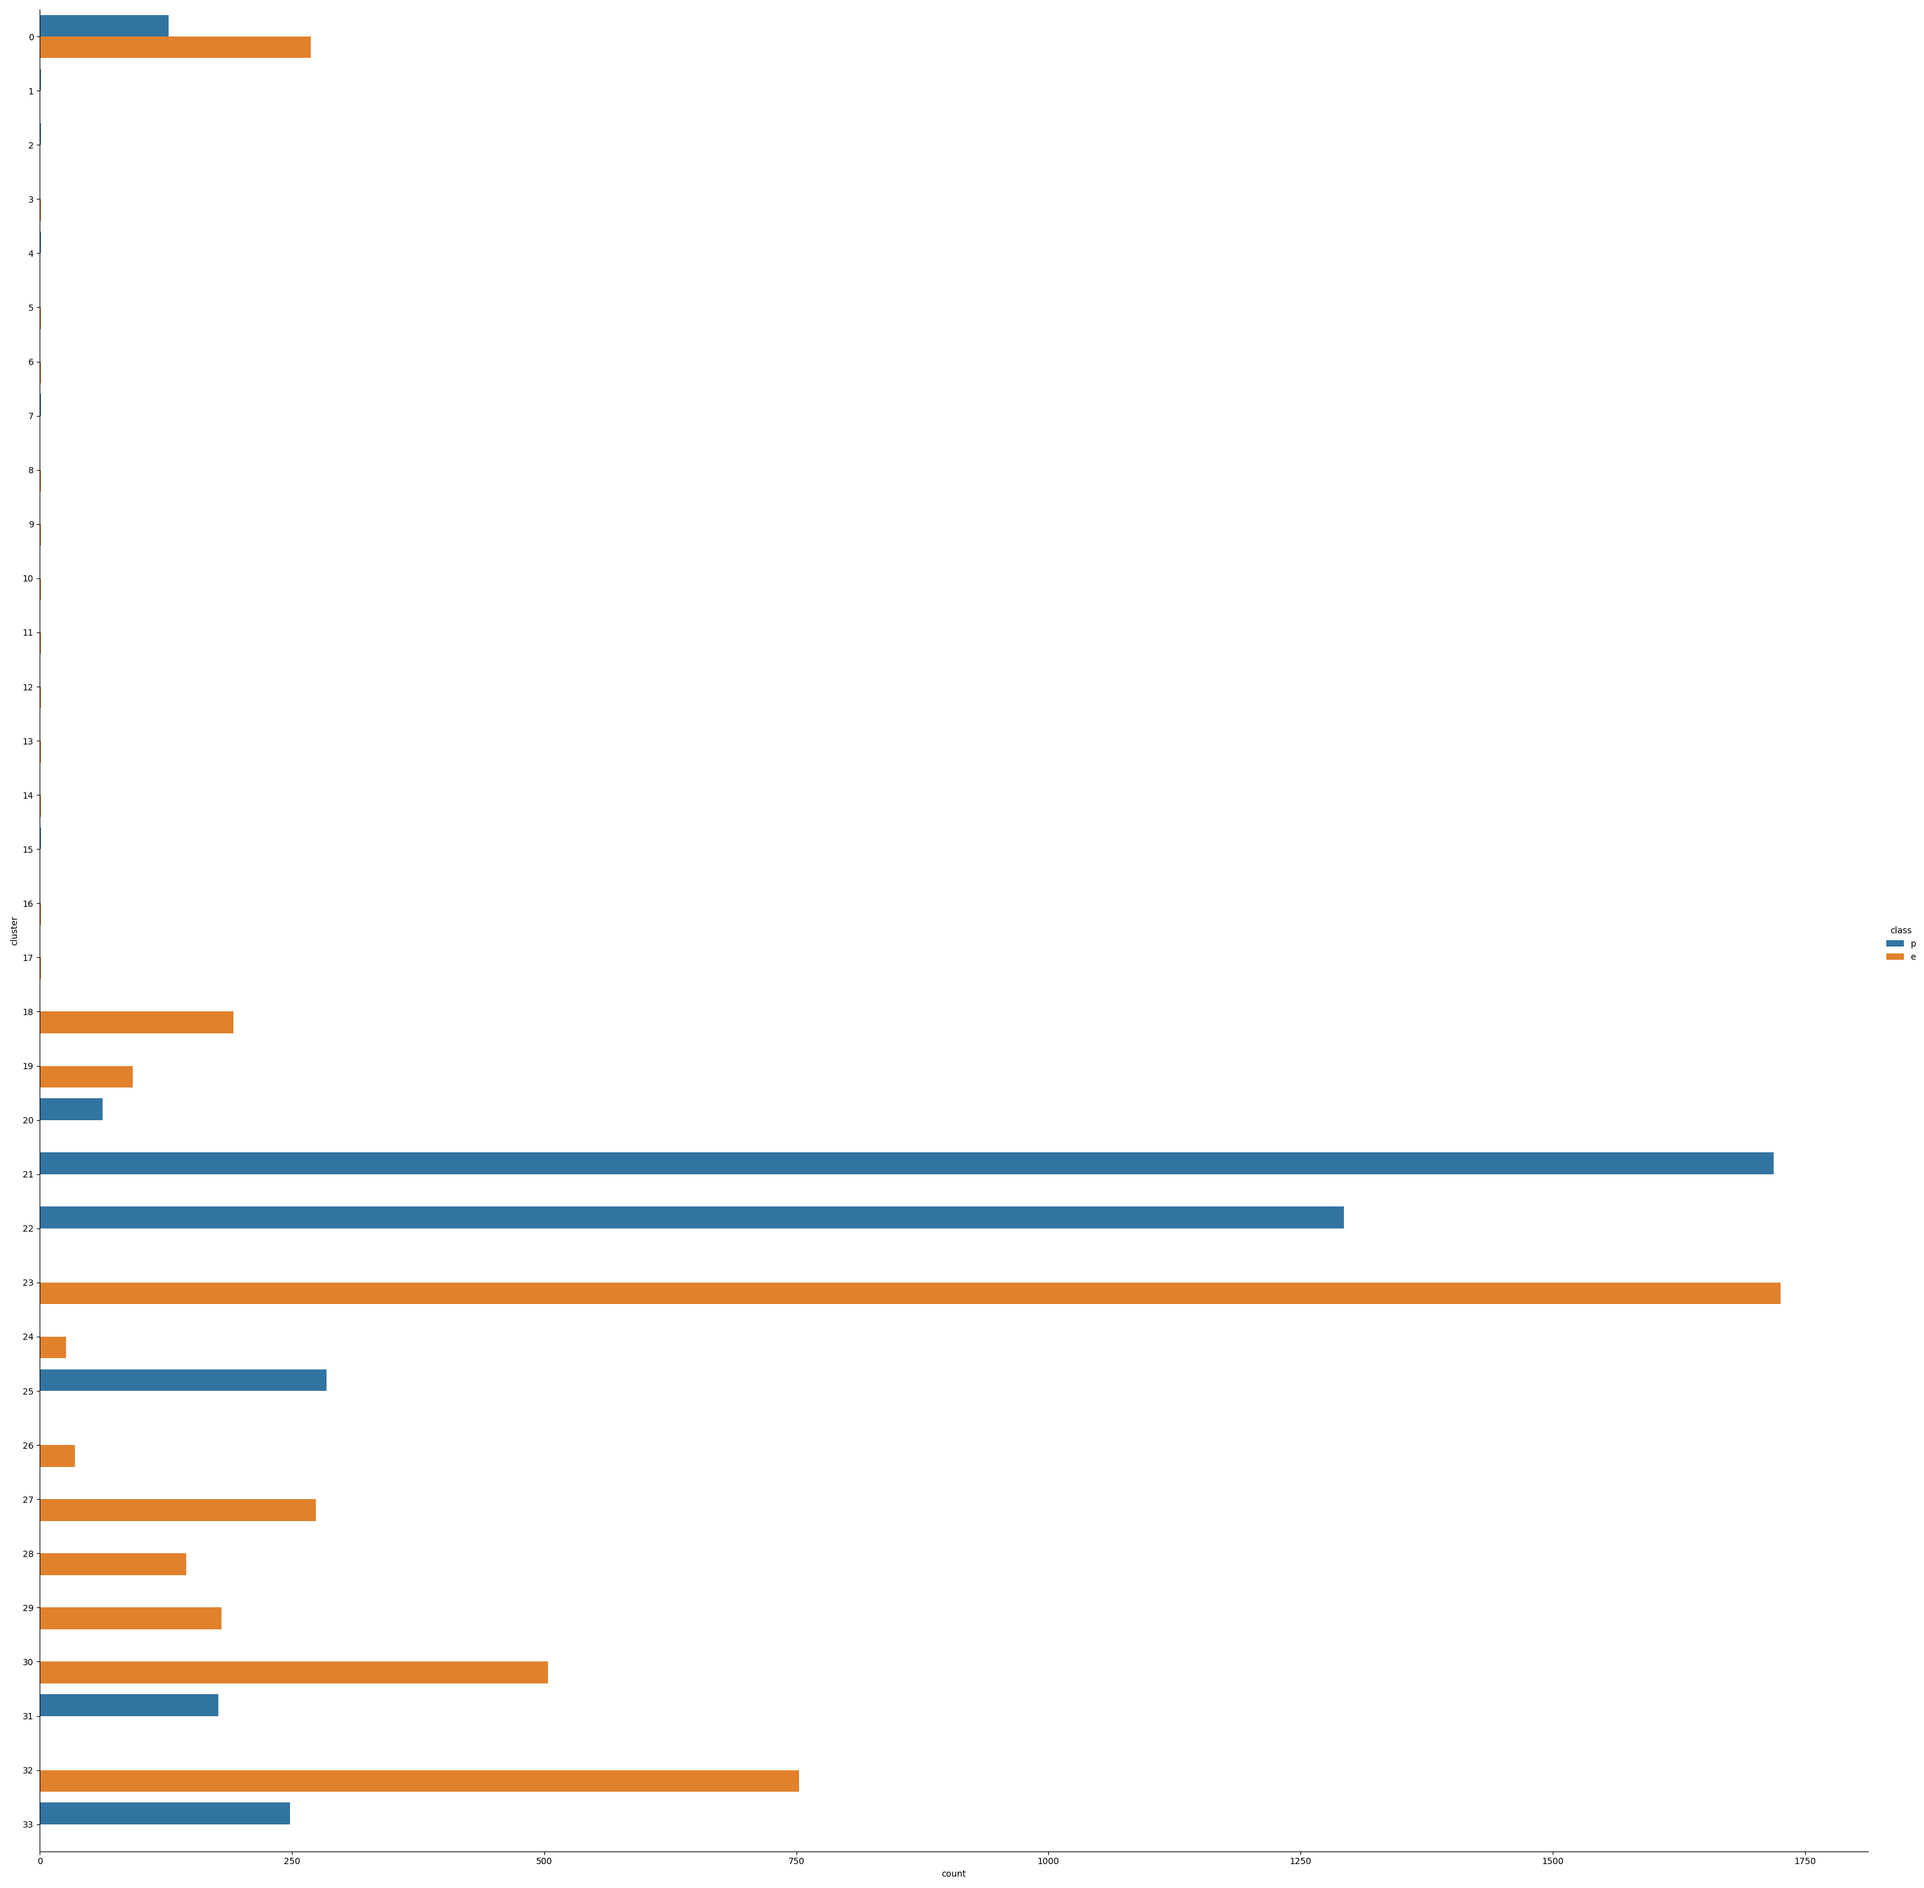
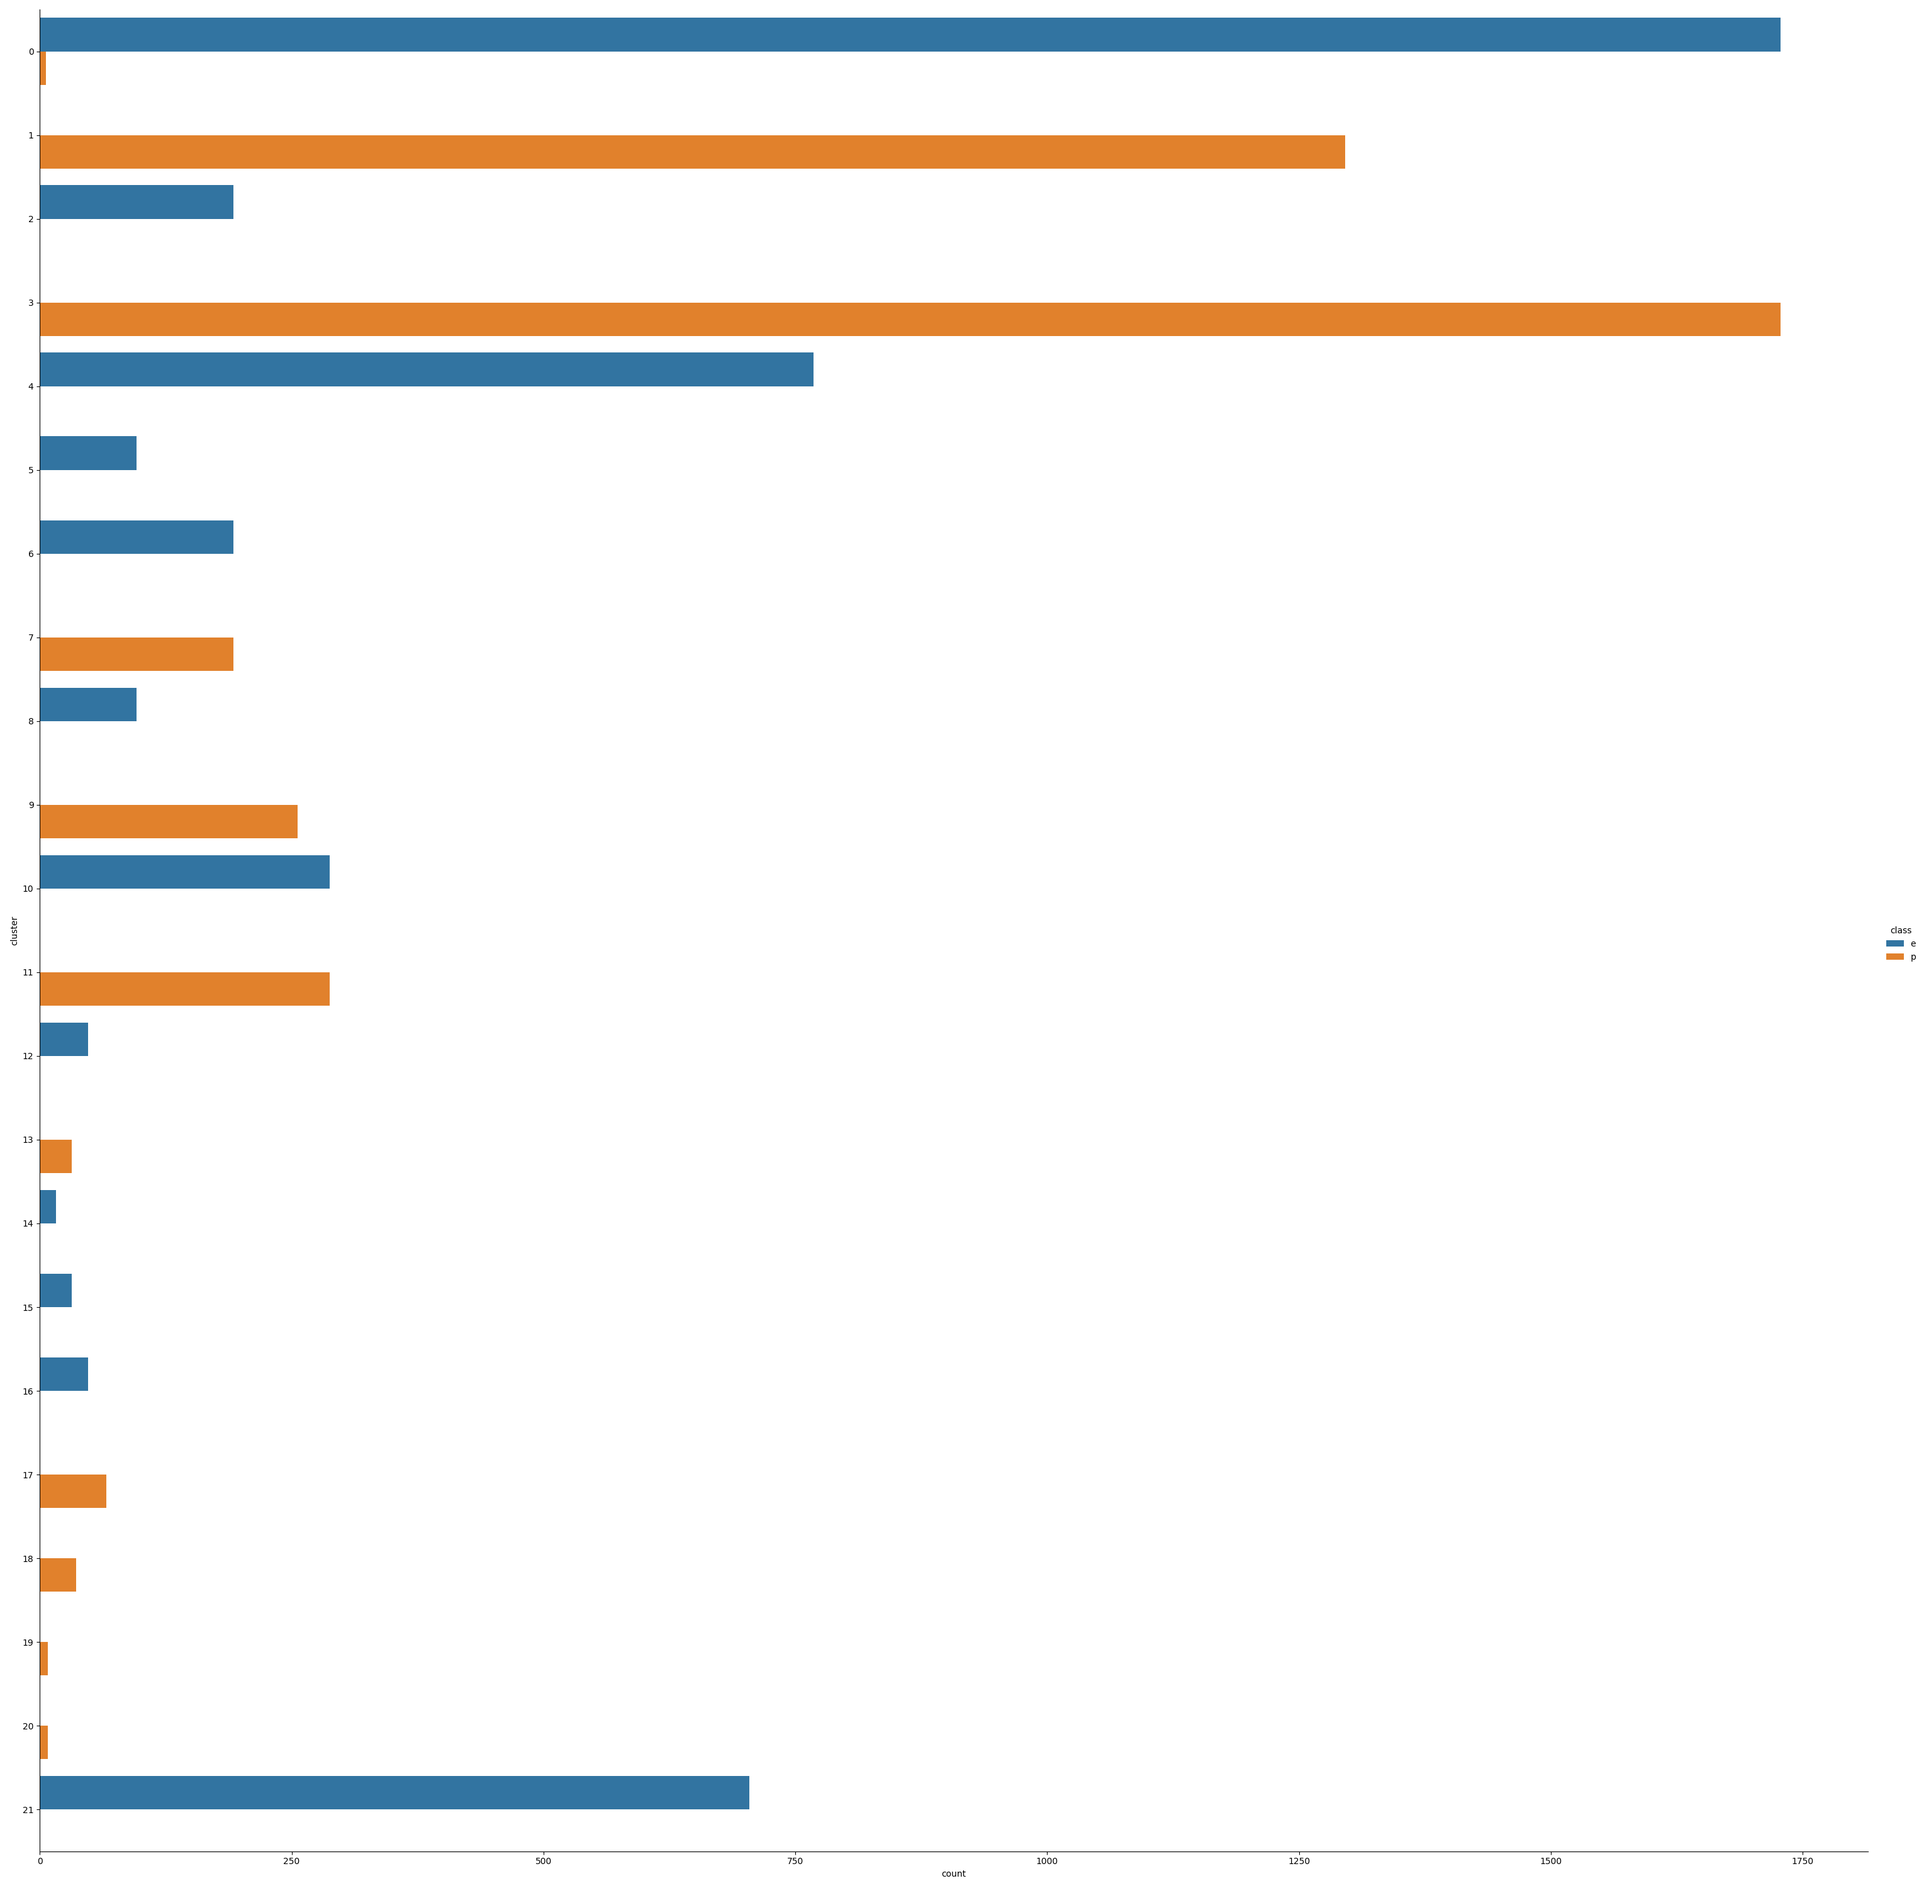
moved loading data to data loader

Changed region(s): [[0.0, 0.155, 0.932, 0.992], [0.0, 0.0, 0.932, 0.031], [0.0, 0.062, 0.7145, 0.124]]

diff --git a/main.py b/main.py
@@ -1,54 +1,53 @@
 import pandas as pd
 import numpy as np
 
-from scipy.io import arff
 from typing import List
 
 import config as cfg
 
 from plotting import plot_2d_dataframe_by_class, plot_2d_dataframe_by_dataset, plot_categorical_data_clusters
 from rock import DistanceRock, CategoricalRock
+from data_loader import DataLoader
 
 
 def test():
     np.random.seed(42)
-    data = arff.loadarff(f'{cfg.DATA_PATH}/2d-3c-no123.arff')
-    data_df: pd.DataFrame = pd.DataFrame(data[0])
-    data_array: np.ndarray = data_df[cfg.DATA_ATTRIBUTES].values
 
+    loader: DataLoader = DataLoader(f'{cfg.DATA_PATH}/2d-3c-no123.arff')
+    data_df: pd.DataFrame = loader.load_from_arff()
+    data_array: np.ndarray = data_df[cfg.DATA_ATTRIBUTES].values
     plot_2d_dataframe_by_class(data_df, 'test4')
 
     rock: DistanceRock = DistanceRock(data_array, 0.5, 3, 0.0, 0.6)
-
     rock.run()
 
     clusters: List[List[int]] = rock.result
-
     cluster_data: List[pd.DataFrame] = []
     for cluster in clusters:
         data_indices = data_df.index.isin(cluster)
         cluster_data.append(data_df[data_indices])
-
     concatenated_df: pd.DataFrame = pd.concat([c.assign(dataset=f'c{i}') for (i, c) in enumerate(cluster_data)])
-
     plot_2d_dataframe_by_dataset(concatenated_df, 'test4')
 
-    cat_data = np.loadtxt("agaricus-lepiota.data", dtype=str, delimiter=",")
-    cat_data_labels = np.asarray(cat_data[:, 0])
-    cat_data_array = np.asarray(cat_data[:, 1:])
+    cat_loader: DataLoader = DataLoader('agaricus-lepiota.data')
+    cat_data: np.ndarray = cat_loader.load_from_csv()
+    cat_data_labels: np.ndarray = np.asarray(cat_data[:, 0])
+    cat_data_array: np.ndarray = np.asarray(cat_data[:, 1:])
 
-    cat_rock = CategoricalRock(cat_data_array, 0.1, 20, 0.8)
-
-    cat_data_df = pd.DataFrame(columns=[cfg.DATA_TARGET, cfg.CATEGORICAL_DATA_ATTRIBUTE])
+    cat_rock: CategoricalRock = CategoricalRock(cat_data_array, 0.25, 20, 0.8)
     cat_rock.run()
-    res = cat_rock.result
-    for i, cluster in enumerate(res):
-        d = cat_data_labels[cluster]
-        for j in range(d.shape[0]):
-            cat_data_df = cat_data_df.append({cfg.DATA_TARGET: d[j], cfg.CATEGORICAL_DATA_ATTRIBUTE: i}, ignore_index=True)
-        labels_cluster_data = cat_data_labels[cluster]
-        unique, counts = np.unique(labels_cluster_data, return_counts=True)
-        print(f'Cluster {i}: {np.asarray((unique, counts)).T}')
+
+    cat_clusters: List[List[int]] = cat_rock.result
+    cat_data_df: pd.DataFrame = pd.DataFrame(columns=[cfg.DATA_TARGET, cfg.CATEGORICAL_DATA_ATTRIBUTE])
+    for i, cluster in enumerate(cat_clusters):
+        labels_in_cluster: np.ndarray = cat_data_labels[cluster]
+        for k in range(labels_in_cluster.shape[0]):
+            cat_data_df = cat_data_df.append(
+                {
+                    cfg.DATA_TARGET: labels_in_cluster[k],
+                    cfg.CATEGORICAL_DATA_ATTRIBUTE: i
+                }, ignore_index=True)
+        print(f'Cluster {i}:\n {np.asarray(np.unique(labels_in_cluster, return_counts=True)).T}')
     plot_categorical_data_clusters(cat_data_df, 'test')
 
 

diff --git a/data_loader.py b/data_loader.py
@@ -1,0 +1,16 @@
+import numpy as np
+import pandas as pd
+
+from scipy.io import arff
+
+
+class DataLoader:
+    def __init__(self, path: str):
+        self.path = path
+
+    def load_from_arff(self) -> pd.DataFrame:
+        data = arff.loadarff(self.path)
+        return pd.DataFrame(data[0])
+
+    def load_from_csv(self) -> np.ndarray:
+        return np.loadtxt(self.path, dtype=str, delimiter=",")
